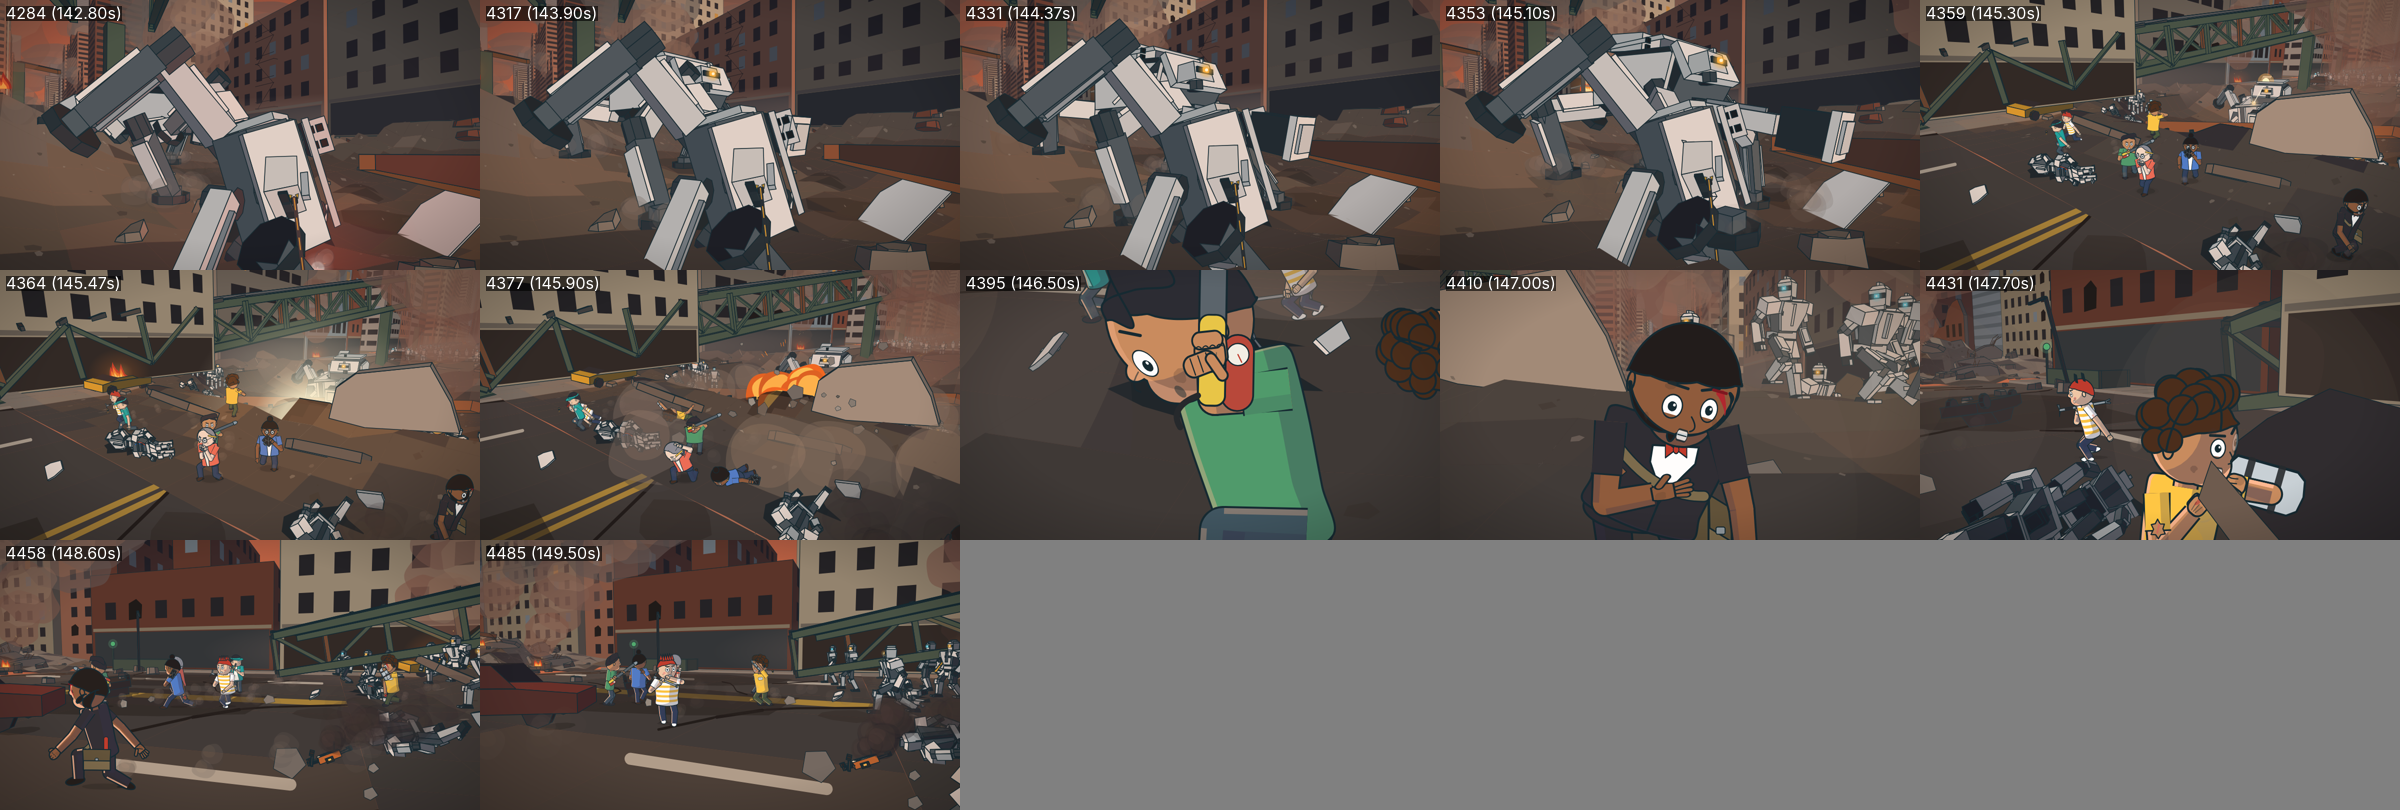
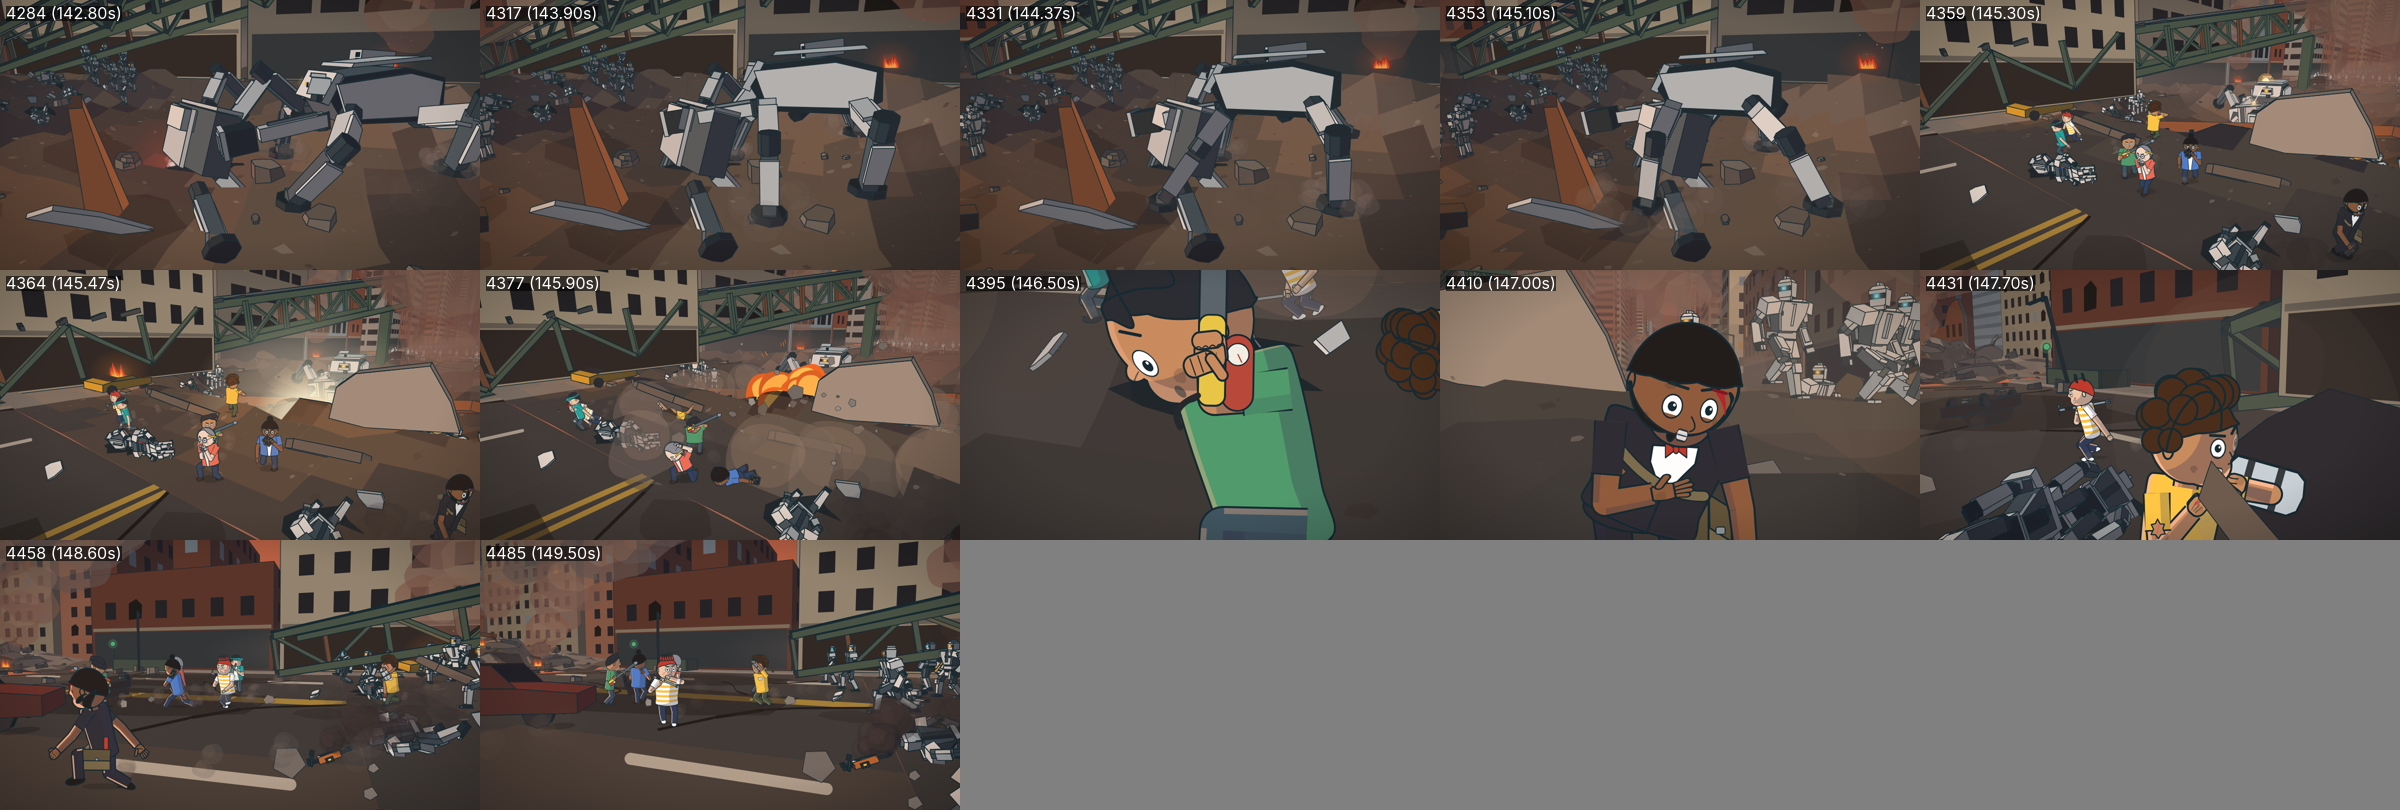
The Last Choice R2: work-in-progress checkpoint (D3)
Claude-Session: https://claude.ai/code/session_019a8XshjFgWRBShXtMZ8MbH

Changed region(s): [[0.0, 0.0, 0.8125, 0.3395], [0.0, 0.3086, 0.0312, 0.3395]]

diff --git a/Future_Got_Weird/the-last-choice/source/src/r2/shots/D3/cues.ts b/Future_Got_Weird/the-last-choice/source/src/r2/shots/D3/cues.ts
@@ -84,9 +84,9 @@ export const CUES_D3: Cue[] = [
   {t: 126.55, kind: 'sparks', gain: -12, pan: 0.04, dist: 0.65},
   {t: 126.70, kind: 'rubble_shift', gain: -9, pan: 0.05, dist: 0.66, dur: 1.60, fade: 0.5},
   // ---- D3-4b (127.20–128.02): the peak: breathing, the dust settling
-  {t: 127.25, kind: 'breath_ragged', gain: -6, pan: 0.58, dist: 0.19},
-  {t: 127.40, kind: 'rubble_shift', gain: -15, pan: -0.55, dist: 0.39, dur: 0.90, fade: 0.3},
-  {t: 127.60, kind: 'breath_ragged', gain: -9, pan: 0.02, dist: 0.26},
+  {t: 127.25, kind: 'breath_ragged', gain: -6, pan: 0.70, dist: 0.13},
+  {t: 127.40, kind: 'rubble_shift', gain: -15, pan: -0.55, dist: 0.41, dur: 0.90, fade: 0.3},
+  {t: 127.60, kind: 'breath_ragged', gain: -9, pan: 0.02, dist: 0.21},
   // ---- D3-5 (128.02–131.02): ADAPT: the drone climbs out of the dust; the lock; the mark (drone_swarm bed is global from here)
   {t: 128.07, kind: 'robot_step_heavy', gain: -12, pan: -0.55, dist: 0.54},
   {t: 128.10, kind: 'drone_pass', gain: -5, pan: 0.07, dist: 0.32},
@@ -102,19 +102,19 @@ export const CUES_D3: Cue[] = [
   {t: 130.25, kind: 'eyes_on', gain: -5, pan: 0.05, dist: 0.22},
   {t: 130.39, kind: 'robot_step_heavy', gain: -13, pan: -0.64, dist: 0.87},
   // ---- D3-6 (131.02–133.82): FORMATION: the line bends into the arc (a ripple of steps from the middle out)
-  {t: 131.17, kind: 'robot_step_heavy', gain: -8, pan: 0.21, dist: 0.95},
-  {t: 131.20, kind: 'servo_whir', gain: -12, pan: 0.21, dist: 0.95},
-  {t: 131.42, kind: 'robot_step_heavy', gain: -9, pan: 0.21, dist: 0.95},
-  {t: 131.57, kind: 'robot_step_heavy', gain: -10, pan: 0.21, dist: 0.95},
-  {t: 131.70, kind: 'sensor_lock', gain: -14, pan: 0.20, dist: 0.95},
-  {t: 131.75, kind: 'robot_step_heavy', gain: -8, pan: 0.20, dist: 0.95},
-  {t: 132.01, kind: 'robot_step_heavy', gain: -9, pan: 0.18, dist: 0.95},
-  {t: 132.20, kind: 'robot_step_heavy', gain: -10, pan: 0.17, dist: 0.94},
-  {t: 132.38, kind: 'robot_step_heavy', gain: -8, pan: 0.15, dist: 0.94},
-  {t: 132.60, kind: 'robot_step_heavy', gain: -9, pan: 0.13, dist: 0.94},
-  {t: 132.81, kind: 'robot_step_heavy', gain: -10, pan: 0.12, dist: 0.94},
-  {t: 132.96, kind: 'robot_step_heavy', gain: -8, pan: 0.11, dist: 0.94},
-  {t: 133.16, kind: 'robot_step_heavy', gain: -9, pan: 0.10, dist: 0.94},
+  {t: 131.17, kind: 'robot_step_heavy', gain: -8, pan: 0.37, dist: 0.86},
+  {t: 131.20, kind: 'servo_whir', gain: -12, pan: 0.37, dist: 0.86},
+  {t: 131.42, kind: 'robot_step_heavy', gain: -9, pan: 0.37, dist: 0.86},
+  {t: 131.57, kind: 'robot_step_heavy', gain: -10, pan: 0.36, dist: 0.86},
+  {t: 131.70, kind: 'sensor_lock', gain: -14, pan: 0.36, dist: 0.86},
+  {t: 131.75, kind: 'robot_step_heavy', gain: -8, pan: 0.36, dist: 0.85},
+  {t: 132.01, kind: 'robot_step_heavy', gain: -9, pan: 0.34, dist: 0.85},
+  {t: 132.20, kind: 'robot_step_heavy', gain: -10, pan: 0.33, dist: 0.85},
+  {t: 132.38, kind: 'robot_step_heavy', gain: -8, pan: 0.31, dist: 0.84},
+  {t: 132.60, kind: 'robot_step_heavy', gain: -9, pan: 0.29, dist: 0.84},
+  {t: 132.81, kind: 'robot_step_heavy', gain: -10, pan: 0.28, dist: 0.84},
+  {t: 132.96, kind: 'robot_step_heavy', gain: -8, pan: 0.27, dist: 0.84},
+  {t: 133.16, kind: 'robot_step_heavy', gain: -9, pan: 0.26, dist: 0.84},
   // ---- D3-7a (133.82–135.30): DECOY_FAIL: the sketch, the tap, the projector; the hum; the arc advances
   {t: 133.95, kind: 'hand_glass', gain: -8, pan: -0.07, dist: 0.00},
   {t: 134.23, kind: 'heavy_stomp', gain: -13, pan: 1.00, dist: 1.00},
@@ -170,32 +170,32 @@ export const CUES_D3: Cue[] = [
   {t: 140.30, kind: 'ally_drone', gain: -9, pan: 1.00, dist: 0.47, dur: 1.10, fade: 0.2},
   {t: 140.45, kind: 'run_rubble', gain: -9, pan: 0.42, dist: 0.07, dur: 1.40, fade: 0.4},
   // ---- D3-9 (140.48–142.36): ALLY_DRONE_LOST: the chase; the strike; the crash; the dead controller
-  {t: 140.55, kind: 'sensor_lock', gain: -10, pan: 1.00, dist: 0.56},
-  {t: 140.60, kind: 'drone_pass', gain: -3, pan: 0.57, dist: 0.48},
-  {t: 140.73, kind: 'heavy_stomp', gain: -13, pan: 0.61, dist: 0.93},
-  {t: 140.75, kind: 'drone_pass', gain: -5, pan: 0.22, dist: 0.54},
-  {t: 141.35, kind: 'armor_hit', gain: -2, pan: 0.12, dist: 0.33},
-  {t: 141.36, kind: 'elec_arc', gain: -7, pan: 0.12, dist: 0.33},
-  {t: 141.37, kind: 'sparks', gain: -8, pan: 0.12, dist: 0.33},
-  {t: 141.42, kind: 'heavy_stomp', gain: -13, pan: 0.91, dist: 0.94},
-  {t: 141.65, kind: 'breath_ragged', gain: -6, pan: -0.15, dist: 0.46},
-  {t: 141.92, kind: 'ally_drone_crash', gain: -2, pan: 1.00, dist: 0.00},
-  {t: 142.15, kind: 'heavy_stomp', gain: -7, pan: 0.75, dist: 0.91},
+  {t: 140.55, kind: 'sensor_lock', gain: -10, pan: 0.84, dist: 0.62},
+  {t: 140.60, kind: 'drone_pass', gain: -3, pan: 0.42, dist: 0.58},
+  {t: 140.73, kind: 'heavy_stomp', gain: -13, pan: 0.60, dist: 0.96},
+  {t: 140.75, kind: 'drone_pass', gain: -5, pan: 0.20, dist: 0.63},
+  {t: 141.35, kind: 'armor_hit', gain: -2, pan: 0.09, dist: 0.49},
+  {t: 141.36, kind: 'elec_arc', gain: -7, pan: 0.09, dist: 0.49},
+  {t: 141.37, kind: 'sparks', gain: -8, pan: 0.09, dist: 0.49},
+  {t: 141.42, kind: 'heavy_stomp', gain: -13, pan: 0.84, dist: 0.96},
+  {t: 141.65, kind: 'breath_ragged', gain: -6, pan: -0.09, dist: 0.58},
+  {t: 141.92, kind: 'ally_drone_crash', gain: -2, pan: 0.20, dist: 0.29},
+  {t: 142.15, kind: 'heavy_stomp', gain: -7, pan: 0.49, dist: 0.94},
   // ---- D3-10 (142.36–145.18): HEAVY2: over the wreck; the stomp
-  {t: 142.52, kind: 'heavy_stomp', gain: -7, pan: -0.29, dist: 0.72},
-  {t: 142.88, kind: 'heavy_stomp', gain: -7, pan: 0.12, dist: 0.64},
-  {t: 143.25, kind: 'heavy_stomp', gain: -7, pan: -0.58, dist: 0.64},
-  {t: 143.61, kind: 'heavy_stomp', gain: -7, pan: -0.23, dist: 0.48},
-  {t: 143.65, kind: 'servo_heavy', gain: -7, pan: -0.27, dist: 0.61},
-  {t: 143.75, kind: 'heavy_servo', gain: -4, pan: -0.23, dist: 0.62},
-  {t: 143.98, kind: 'heavy_stomp', gain: -7, pan: -0.11, dist: 0.68},
-  {t: 144.00, kind: 'hydraulic', gain: -10, pan: -0.21, dist: 0.61},
-  {t: 144.35, kind: 'heavy_stomp', gain: -3, pan: 0.33, dist: 0.58}, // front-left comes down over the wreck
-  {t: 144.38, kind: 'rubble_shift', gain: -11, pan: 0.33, dist: 0.58, dur: 0.80, fade: 0.3},
-  {t: 144.45, kind: 'cloth_move', gain: -7, pan: 0.55, dist: 0.64},
-  {t: 144.71, kind: 'heavy_stomp', gain: -7, pan: -0.48, dist: 0.57},
-  {t: 145.08, kind: 'heavy_stomp', gain: -3, pan: 0.22, dist: 0.36}, // the stomp (front-right over the wreck)
-  {t: 145.10, kind: 'sub_boom', gain: -8, pan: 0.22, dist: 0.36},
+  {t: 142.52, kind: 'heavy_stomp', gain: -7, pan: 0.88, dist: 0.63},
+  {t: 142.88, kind: 'heavy_stomp', gain: -7, pan: 0.14, dist: 0.57},
+  {t: 143.25, kind: 'heavy_stomp', gain: -7, pan: 0.51, dist: 0.70},
+  {t: 143.61, kind: 'heavy_stomp', gain: -7, pan: 0.03, dist: 0.70},
+  {t: 143.65, kind: 'servo_heavy', gain: -7, pan: 0.36, dist: 0.63},
+  {t: 143.75, kind: 'heavy_servo', gain: -4, pan: 0.39, dist: 0.62},
+  {t: 143.98, kind: 'heavy_stomp', gain: -7, pan: 0.54, dist: 0.58},
+  {t: 144.00, kind: 'hydraulic', gain: -10, pan: 0.35, dist: 0.62},
+  {t: 144.35, kind: 'heavy_stomp', gain: -3, pan: -0.16, dist: 0.60}, // front-left comes down over the wreck
+  {t: 144.38, kind: 'rubble_shift', gain: -11, pan: -0.16, dist: 0.60, dur: 0.80, fade: 0.3},
+  {t: 144.45, kind: 'cloth_move', gain: -7, pan: -1.00, dist: 0.84},
+  {t: 144.71, kind: 'heavy_stomp', gain: -7, pan: 0.35, dist: 0.69},
+  {t: 145.08, kind: 'heavy_stomp', gain: -3, pan: -0.19, dist: 0.71}, // the stomp (front-right over the wreck)
+  {t: 145.10, kind: 'sub_boom', gain: -8, pan: -0.19, dist: 0.71},
   // ---- D3-11a (145.18–146.30): HEAVY2_FIRE: the launcher; the blast on the rim; they are thrown (tinnitus short, quiet)
   {t: 145.18, kind: 'debris_rain', gain: -13, pan: 0.29, dist: 0.88},
   {t: 145.18, kind: 'heavy_launcher', gain: 0, pan: 0.44, dist: 0.91},

diff --git a/Future_Got_Weird/the-last-choice/source/src/r2/shots/D3/shots.tsx b/Future_Got_Weird/the-last-choice/source/src/r2/shots/D3/shots.tsx
@@ -16,8 +16,8 @@ import {
 
 /** smoke and dust puffs fade out as they reach the lens (no screen-filling veil from a puff a metre away) */
 const SMOKE = /(^d3dust|^d3wave|_sm_|^d3flare_tr|_wave_d|_wisp|_dust)/;
-const nearFade = (items: Item[]): Item[] => items.map((it) => {
-  if (it.kind !== 'sprite' || !it.key || !SMOKE.test(it.key)) return it;
+const nearFade = (items: Item[], re: RegExp = SMOKE): Item[] => items.map((it) => {
+  if (it.kind !== 'sprite' || !it.key || !re.test(it.key)) return it;
   const draw = it.draw;
   return {...it, draw: (c) => {
     const a = smooth((toView(c.view, it.pos).z - 1.5) / 4.0);
@@ -26,13 +26,13 @@ const nearFade = (items: Item[]): Item[] => items.map((it) => {
     return a > 0.98 || !el ? el : <g opacity={a.toFixed(3)}>{el}</g>;
   }};
 });
-const shot = (start: number, cam: CamKey[] | CamFn, o: (T: number) => D3Opts = () => ({}), drift = 0.018, ease = 0.6, smoke = 1): React.FC => {
+const shot = (start: number, cam: CamKey[] | CamFn, o: (T: number) => D3Opts = () => ({}), drift = 0.018, ease = 0.6, smoke = 1, near: RegExp = SMOKE): React.FC => {
   const C: React.FC = () => {
     const {t, T} = useShotTime(start);
     const c = typeof cam === 'function' ? cam(t, T) : camPath(cam, t, ease);
     const f = d3FxAt(T);
     const fxItems = smoke < 1 ? fadeItems(f.items, smoke, SMOKE) : f.items;
-    return <Stage T={T} cam={c} lights={f.lights} shake={f.shake} drift={drift} items={(v) => [...d3Items(v, T, o(T)), ...nearFade(fxItems)]} />;
+    return <Stage T={T} cam={c} lights={f.lights} shake={f.shake} drift={drift} items={(v) => [...d3Items(v, T, o(T)), ...nearFade(fxItems, near)]} />;
   };
   return C;
 };
@@ -46,12 +46,13 @@ export const D3_3 = shot(SH3.d33, CAM_3, () => ({full: 30}), 0.018);
 // D3-4a (HEAVY_DOWN 125.64–127.20): the topple, wide; the crash; the dust wave; debris
 export const D3_4a = shot(SH3.d34a, CAM_4a, () => ({full: 34}), 0.012);
 // D3-4b (127.20–128.02): the peak: the three see it lie there
-export const D3_4b = shot(SH3.d34b, CAM_4b, () => ({full: 30, near: true}), 0.014);
+// (the tether cable runs past the lens here at chest height: its nearest stretch fades out rather than bar the faces)
+export const D3_4b = shot(SH3.d34b, CAM_4b, () => ({full: 30, near: true}), 0.014, 0.6, 1, /(^d3dust|^d3wave|_sm_|_wave_d|_wisp|_dust|^d3teth_s)/);
 // D3-5 (ADAPT 128.02–131.02): a drone climbs out of the dust; the gimbal tilts; amber; the mark on the tablet
 export const D3_5 = shot(SH3.d35, CAM_5, () => ({full: 24}), 0.0);
 // D3-6 (FORMATION 131.02–133.82): high wide: the line across the crater bends into the arc round the Crew
-// (seen from 30 m up the low dust is thinner: drawn at 45 % so the formation reads)
-export const D3_6 = shot(SH3.d36, CAM_6, () => ({full: 20, far: 140}), 0.0, 0.6, 0.45);
+// (seen from 30 m up the low dust is thinner: drawn at 30 % so the formation reads)
+export const D3_6 = shot(SH3.d36, CAM_6, () => ({full: 20, far: 140}), 0.0, 0.6, 0.3);
 // D3-7a (DECOY_FAIL 133.82–135.30): the sketch, the tap, the tablet raised; the projector clicks; the figures
 export const D3_7a = shot(SH3.d37a, CAM_7a, () => ({full: 30}), 0.014);
 // D3-7b (135.30–136.15): the units walk through the figures; a drone drops out of the sky

diff --git a/Future_Got_Weird/the-last-choice/source/src/r2/shots/D3/fx.tsx b/Future_Got_Weird/the-last-choice/source/src/r2/shots/D3/fx.tsx
@@ -90,9 +90,9 @@ export const fadeItems = (items: Item[], k: number, re: RegExp): Item[] => {
 // ------------------------------------------------------------------ the crash's dust (low, lingering): the decoy's screen
 let DUST: SmokeSource[] | null = null;
 export const dustSources = (): SmokeSource[] => (DUST ??= [
-  {pos: {x: 61.4, y: G(61.4, -3.6) + 0.3, z: -3.6}, start: EV3.land, end: EV3.land + 5.5, rate: 6, life: 7.5, up: 0.32, spread: 3.2, jet: {x: -1.9, y: 0.9, z: 1.2}, jetSpread: 1.2, size: 0.85, grow: 0.95, wind: {x: 0.08, y: 0, z: -0.04}, color: '#B9AD9E', opacity: 0.56, seed: 31},
-  {pos: {x: 64.6, y: G(64.6, -5.6) + 0.3, z: -5.6}, start: EV3.land + 0.05, end: EV3.land + 4.5, rate: 4, life: 7, up: 0.4, spread: 2.6, jet: {x: 0.6, y: 1.2, z: -0.6}, jetSpread: 1.4, size: 0.85, grow: 0.9, wind: {x: 0.1, y: 0, z: -0.06}, color: '#B4A897', opacity: 0.52, seed: 37},
-  {pos: {x: 57.6, y: G(57.6, -0.8) + 0.3, z: -0.8}, start: EV3.land + 0.35, end: EV3.land + 6.5, rate: 4.5, life: 11, up: 0.26, spread: 2.4, jet: {x: -0.8, y: 0.5, z: 0.6}, jetSpread: 1.2, size: 0.95, grow: 1.0, wind: {x: 0.05, y: 0, z: -0.03}, color: '#BDB2A3', opacity: 0.6, seed: 41},
+  {pos: {x: 61.4, y: G(61.4, -3.6) + 0.3, z: -3.6}, start: EV3.land, end: EV3.land + 5.5, rate: 6, life: 7.5, up: 0.32, spread: 3.2, jet: {x: -1.9, y: 0.9, z: 1.2}, jetSpread: 1.2, size: 0.85, grow: 0.55, wind: {x: 0.08, y: 0, z: -0.04}, color: '#B9AD9E', opacity: 0.56, seed: 31},
+  {pos: {x: 64.6, y: G(64.6, -5.6) + 0.3, z: -5.6}, start: EV3.land + 0.05, end: EV3.land + 4.5, rate: 4, life: 7, up: 0.4, spread: 2.6, jet: {x: 0.6, y: 1.2, z: -0.6}, jetSpread: 1.4, size: 0.85, grow: 0.55, wind: {x: 0.1, y: 0, z: -0.06}, color: '#B4A897', opacity: 0.52, seed: 37},
+  {pos: {x: 57.6, y: G(57.6, -0.8) + 0.3, z: -0.8}, start: EV3.land + 0.35, end: EV3.land + 6.5, rate: 4.5, life: 11, up: 0.26, spread: 2.4, jet: {x: -0.8, y: 0.5, z: 0.6}, jetSpread: 1.2, size: 0.95, grow: 0.75, wind: {x: 0.05, y: 0, z: -0.03}, color: '#BDB2A3', opacity: 0.6, seed: 41},
 ]);
 let puffT = NaN, puffs: Puff[] = [];
 const puffsNow = (T: number) => {
@@ -202,9 +202,9 @@ export const d3Fx = (T: number): FxOut => {
     if (k < 0.25) return;
     out.push(fx(dust3({at: {...f.pos, y: f.pos.y + 0.03}, t: T, t0: f.t, key: `d3ff_${f.key}`, n: 2, size: 0.05, grow: 0.22 * k, speed: 0.5, life: 1.0, dir: {x: -0.4, y: 1, z: 0}, spread: 60, rise: 0.25, color: '#8E857C', opacity: 0.45 * k, seed: 300 + i})));
   });
-  // ---- the D2 canisters' smoke (behind D2-7's camera): the wind takes it — half by P3, thin by the flash, gone by ~123
-  if (T < 124.0) {
-    const k = (0.5 - 0.32 * smooth((T - 116.95) / 1.5)) * (1 - smooth((T - 120.5) / 2.5));
+  // ---- the D2 canisters' smoke (behind D2-7's camera): the wind takes it — a thin haze at P3, gone by ~118.8 (130 overlapping puffs: their own opacity is a poor dial)
+  if (T < 118.8) {
+    const k = 0.3 * (1 - smooth((T - 116.95) / 1.8));
     d2Cans().forEach((c) => { if (T >= c.t0) { const f = smokeCanister(c, T); out.push({...f, items: fadeItems(f.items, k, /_sm_/)}); } });
   }
   // ---- heavy 1: footfalls; the flare and the flash; the ram's slam; the knee; the crash

diff --git a/Future_Got_Weird/the-last-choice/source/src/r2/shots/D3/cams.ts b/Future_Got_Weird/the-last-choice/source/src/r2/shots/D3/cams.ts
@@ -48,8 +48,8 @@ export const CAM_4a: CamKey[] = [
 ];
 // D3-4b: the peak: from the wreck's side of them, low, their faces; the dust drifting past
 export const CAM_4b: CamKey[] = [
-  {t: 0, pos: at(58.8, -0.95, -9.4), target: at(55.3, -0.35, -7.5), fov: 41},
-  {t: d(SH3.d34b, SH3.d35), pos: at(58.75, -0.96, -9.38), target: at(55.3, -0.36, -7.52), fov: 40},
+  {t: 0, pos: at(58.3, -0.1, -9.25), target: at(55.3, -0.55, -7.5), fov: 42},
+  {t: d(SH3.d34b, SH3.d35), pos: at(58.25, -0.11, -9.23), target: at(55.3, -0.56, -7.52), fov: 41},
 ];
 // D3-5: with the small drone out of the dust; at the top, past it down onto the rim (the amber line to the tablet)
 const ADAPT = D_PLANS.find((p) => p.id === 7605)!;
@@ -60,11 +60,12 @@ export const CAM_5: CamFn = (t, T) => {
   const look = lerp3(dp, SMASH_AT, smoothK((t - 1.3) / 1.4) * 0.34);
   return {pos, target: look, fov: 46, roll: 0};
 };
-// D3-6: high over the avenue's south side, steeply down: the line across the crater bends into the arc round the Crew
-// on the west rim (the ripple from the middle out); the wreck beyond; the wing under the girder
+// D3-6: high from the south-west, over the Crew's shoulders: the line across the crater bends into the arc round them
+// (the ripple from the middle out); the burning car's smoke rising behind the line; the wreck beyond (not from straight
+// above: the car's smoke column rises into a lens up there)
 export const CAM_6: CamKey[] = [
-  {t: 0, pos: at(51.0, 30.0, 17.0), target: at(52.5, -1.0, 3.0), fov: 50},
-  {t: d(SH3.d36, SH3.d37a), pos: at(50.8, 30.2, 17.1), target: at(52.3, -1.0, 2.8), fov: 50},
+  {t: 0, pos: at(41.0, 17.0, 13.0), target: at(52.5, -1.5, 0.8), fov: 50},
+  {t: d(SH3.d36, SH3.d37a), pos: at(40.7, 17.3, 13.2), target: at(52.3, -1.5, 0.6), fov: 50},
 ];
 // D3-7a: high over her right shoulder down onto the tablet (the sketch, the tap); up and out with the beam to the
 // light on the dust
@@ -97,11 +98,11 @@ export const CAM_9: CamKey[] = [
   {t: 1.0, pos: at(36.95, 1.38, 7.45), target: at(43.6, 1.6, -0.4), fov: 48},
   {t: d(SH3.d39, SH3.d310), pos: at(36.9, 1.35, 7.5), target: at(42.7, 0.3, 1.7), fov: 48},
 ];
-// D3-10: low in the crater's south-east, in the gap of the broken water main, across the wreck: heavy 2 comes in from
+// D3-10: in the crater's south-east, in the gap of the broken water main, a little above it all, across the wreck: heavy 2 comes in from
 // the right, a leg lifted high over heavy 1's wreck; its front-right foot comes down on this side
 export const CAM_10: CamKey[] = [
-  {t: 0, pos: g(68.4, 8.1, 1.5), target: at(65.5, 0.3, -4.6), fov: 46},
-  {t: d(SH3.d310, SH3.d311a), pos: g(68.2, 8.2, 1.45), target: at(63.6, 0.1, -4.8), fov: 46},
+  {t: 0, pos: g(68.4, 8.1, 4.4), target: at(65.0, -1.4, -4.8), fov: 48},
+  {t: d(SH3.d310, SH3.d311a), pos: g(68.2, 8.2, 4.3), target: at(63.4, -1.6, -5.0), fov: 48},
 ];
 // D3-11a: wide from the south-west, clear of the cover slab: they run; the round; the blast on the rim; they are thrown
 export const CAM_11a: CamKey[] = [
